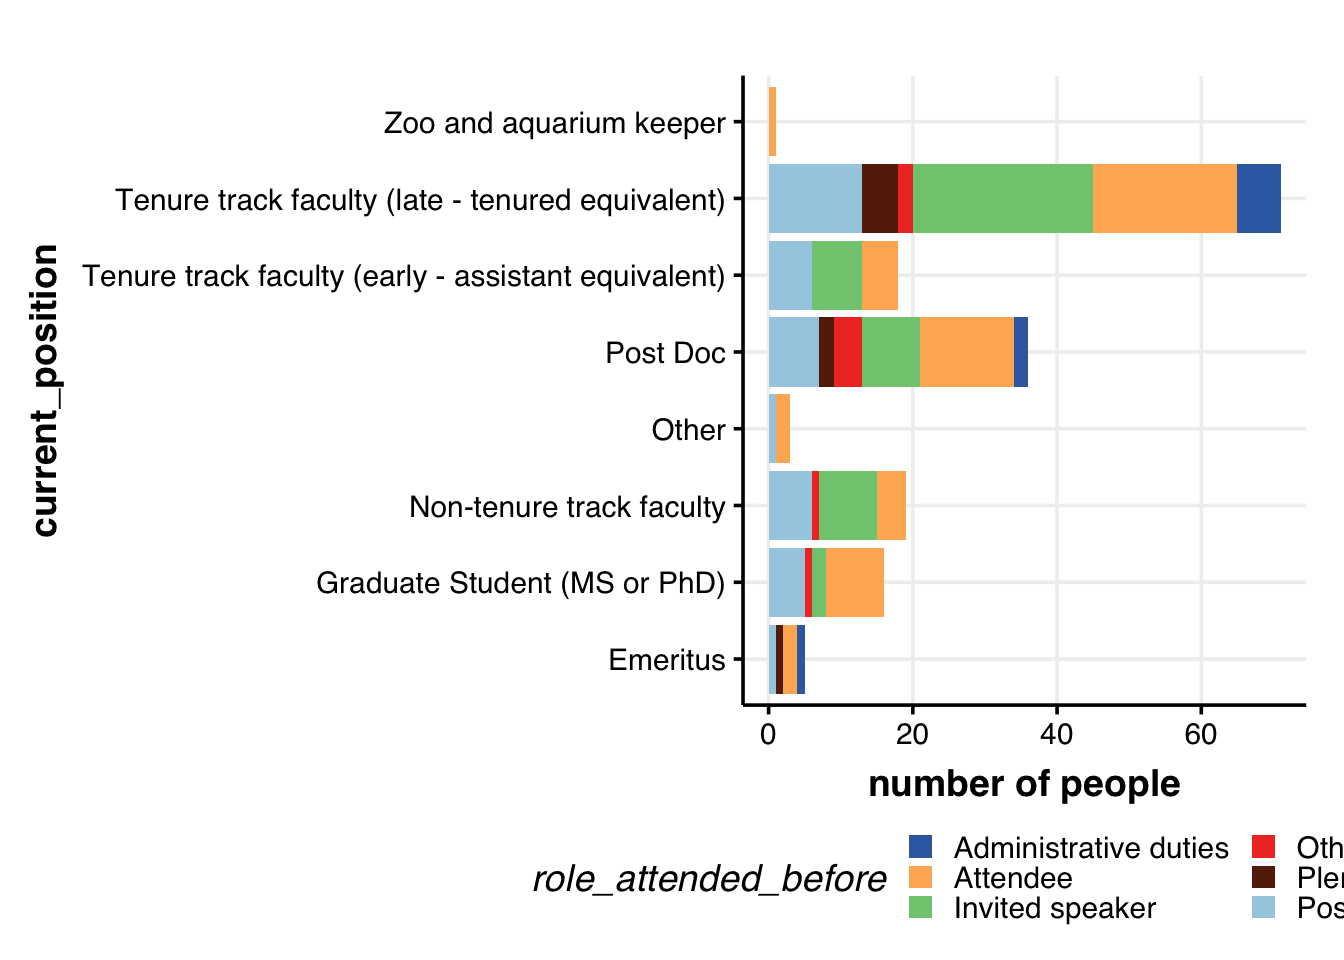
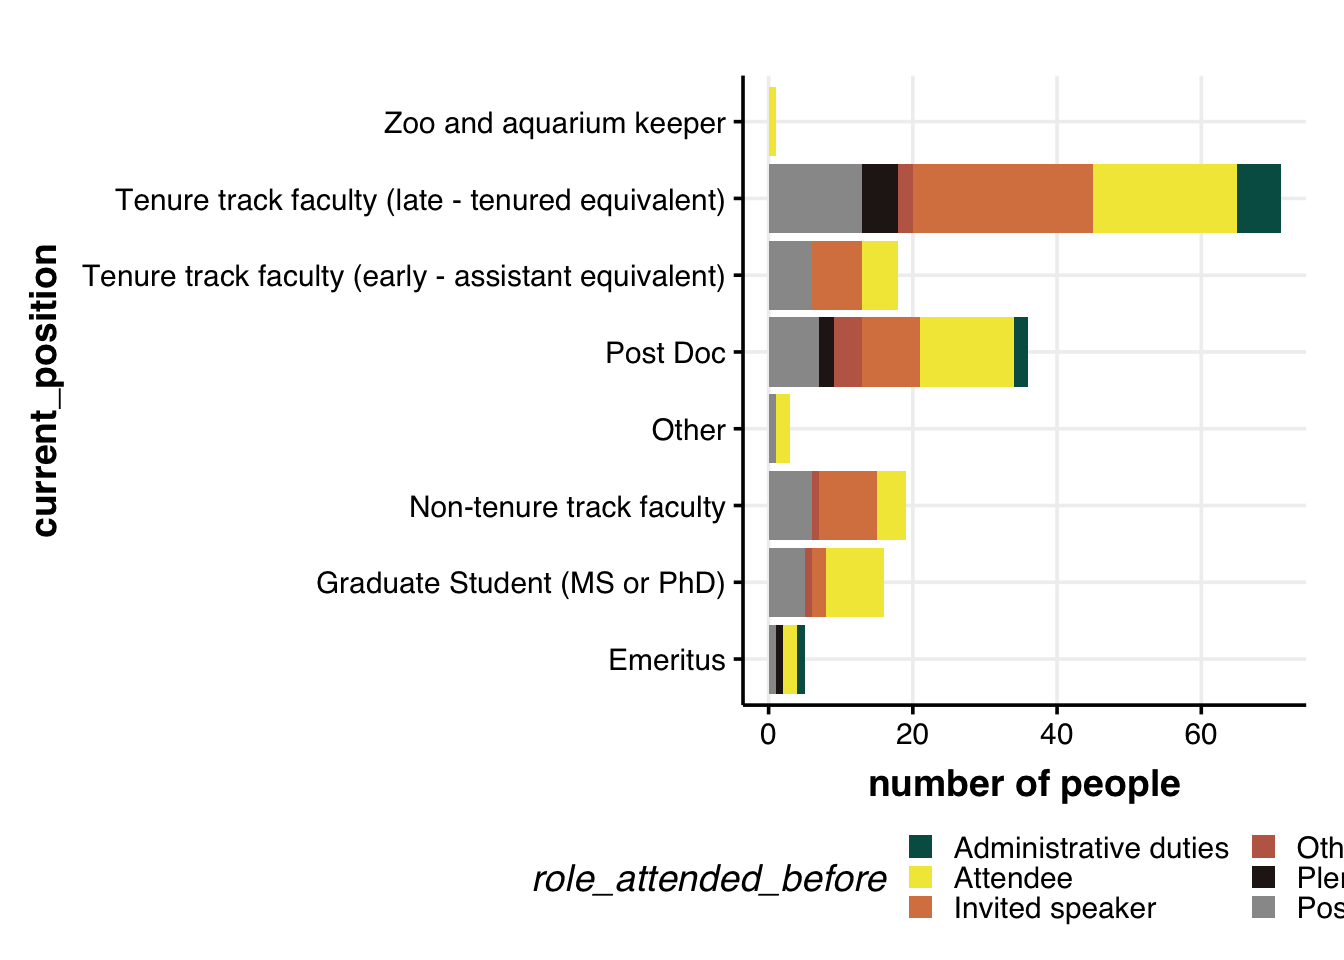
added a standardized measure of conference activity

Changed region(s): [[0.5625, 0.0938, 0.9688, 0.7188], [0.9062, 0.875, 0.9688, 0.9688], [0.6562, 0.875, 0.7188, 0.9688]]

diff --git a/docs/IUSSI2022.html b/docs/IUSSI2022.html
@@ -10,7 +10,6 @@
 <meta http-equiv="X-UA-Compatible" content="IE=EDGE" />
 
 
-<meta name="author" content="Biplabendu Das" />
 
 
 <title>Demography data for IUSSI</title>
@@ -439,7 +438,8 @@ div.tocify {
 
 <h1 class="title toc-ignore">Demography data for IUSSI</h1>
 <h4 class="author">Biplabendu Das</h4>
-<h4 class="date">14 July, 2022</h4>
+<address class="author_afil">
+DEIJ Committee, IUSSI<br><h4 class="date">18 July, 2022</h4>
 
 </div>
 
@@ -711,7 +711,7 @@ I have no disability/impairment
 </table>
 <div id="what-does-each-column-contain" class="section level3">
 <h3>What does each column contain?</h3>
-<p><strong>Column name and Description</strong></p>
+<p><strong>Column name: Description</strong></p>
 <ul>
 <li>time_of_entry:</li>
 <li>age:</li>
@@ -891,6 +891,11 @@ dat &lt;-
 </div>
 <div id="visualize" class="section level2">
 <h2>03 Visualize</h2>
+<pre class="r"><code>## Use this code chunk to define paramaters, such as color palettes and such
+
+## COLOR
+# role attended before
+roles.color &lt;- c(&quot;#005C53&quot;, &quot;#F2E744&quot;, &quot;#D9814E&quot;, &quot;#BF6854&quot;, &quot;#261B1A&quot;, &quot;grey60&quot;)</code></pre>
 <div id="age-gender" class="section level3">
 <h3>Age &amp; gender</h3>
 <pre class="r"><code>## AGE + GENDER
@@ -969,7 +974,7 @@ dat %&gt;%
     guides(fill = guide_legend(nrow = 3))</code></pre>
 <p><img src="IUSSI2022_files/figure-html/research_location_gender-1.png" width="672" /></p>
 <blockquote>
-<p>A bunch of folks perform research in Central America, but no representation from folks living in Central America.</p>
+<p>A bunch of folks perform research in Central America, but there seems to be no representation from folks living in Central America. There is, of course, the possibility that folks residing in Central America did not take the survey.</p>
 </blockquote>
 <hr />
 </div>
@@ -1044,7 +1049,8 @@ dat %&gt;%
     coord_flip() +
     theme_Publication() +
     scale_colour_Publication() +
-    scale_fill_Publication() +
+    # scale_fill_Publication() +
+    scale_fill_manual(values = roles.color) +
     guides(fill = guide_legend(nrow = 3))</code></pre>
 <p><img src="IUSSI2022_files/figure-html/role_attended_before_residence_location-1.png" width="672" /></p>
 <hr />
@@ -1070,12 +1076,101 @@ dat %&gt;%
     coord_flip() +
     theme_Publication() +
     scale_colour_Publication() +
-    scale_fill_Publication() +
+    scale_fill_manual(values = roles.color) +
     guides(fill = guide_legend(nrow = 3))</code></pre>
 <p><img src="IUSSI2022_files/figure-html/role_attended_before_current_position-1.png" width="672" /></p>
 <pre class="r"><code># to do:
 # normalize the number of roles undertaken by a person in past IUSSI
 # number of past roles / number of past IUSSI attended</code></pre>
+<p>The above plot might be misleading since the higher number of roles assumed by (activity of) late, tenured Profs might be due to the higher number of previous conferences attened by them. So, it might make sense to have a standardized metric that gives us a better understanding of the activity of each group in IUSSI.</p>
+<blockquote>
+<p>Activity = number of roles assumed (other than attendee) / number of IUSSIs attended</p>
+</blockquote>
+<pre class="r"><code>id &lt;- character()
+num_attended &lt;- numeric()  
+for (i in 1:length(levels(as.factor(dat$ID)))) {
+    
+    id[i] &lt;- levels(as.factor(dat$ID))[i]
+    
+    num_attended[i] &lt;-
+      dat %&gt;% 
+      filter(ID == id[i]) %&gt;%
+      # select(which_attended_before)
+      mutate(which_attended_before=as.character(which_attended_before)) %&gt;% 
+      pull(which_attended_before) %&gt;% 
+      unique() %&gt;% 
+      as.factor() %&gt;% 
+      levels() %&gt;% length() %&gt;% 
+      as.numeric()
+}
+
+dummy.dat &lt;- data.frame(ID=id, num_attended=num_attended)
+
+## Add this information to the primary dataset
+
+dat %&gt;% 
+  
+  # add the num_attended column to dat
+  left_join(dummy.dat, by=&quot;ID&quot;) %&gt;% 
+    # check to see if it worked
+    # select(ID, which_attended_before, num_attended) %&gt;% head(20)
+  
+  # remove the rows with no info
+  filter(!is.na(role_attended_before)) %&gt;%
+  filter(!is.na(current_position)) %&gt;%
+  # filter(gender != &quot;Other&quot;) %&gt;% 
+  
+  select(ID, current_position, role_attended_before, num_attended) %&gt;% 
+    # head(20)
+  
+  distinct(ID, role_attended_before, current_position, num_attended) %&gt;% 
+  
+  group_by(ID, current_position, num_attended) %&gt;%
+  summarize(num_roles = n()) %&gt;% 
+  arrange(as.numeric(ID)) %&gt;% 
+  
+  # calculate activity
+  mutate(activity = num_roles/num_attended) %&gt;% 
+    
+  ## Plot: research_location + gender
+  ggplot(aes(x=current_position, y=activity,fill=current_position)) +
+    # geom_bar(position=&quot;stack&quot;, stat=&quot;identity&quot;, size=2) +
+    geom_boxplot(alpha=0.7, outlier.colour = &quot;darkred&quot;) +
+    labs(y=&quot;roles/attendance&quot;) +
+    # geom_hline(yintercept = 5, col=&quot;grey60&quot;, alpha=0.7, size=1) +
+    coord_flip() +
+    theme_Publication() +
+    scale_colour_Publication() +
+    scale_fill_Publication() +
+    # scale_fill_manual(values = roles.color) +
+    guides(fill = guide_legend(nrow = 8))</code></pre>
+<p><img src="IUSSI2022_files/figure-html/role_attended_before_current_position_v2-1.png" width="672" /></p>
+<hr />
+</div>
+<div id="role-of-attendee-ethnic-identity" class="section level3">
+<h3>Role of attendee &amp; ethnic identity</h3>
+<pre class="r"><code>dat %&gt;% 
+  
+  # remove the rows with no age/gender info
+  filter(!is.na(role_attended_before)) %&gt;%
+  filter(!is.na(ethnic_identity)) %&gt;%
+  # filter(gender != &quot;Other&quot;) %&gt;% 
+  
+  distinct(ID, role_attended_before, ethnic_identity) %&gt;% 
+  group_by(role_attended_before, ethnic_identity) %&gt;%
+  summarize(num = n()) %&gt;% 
+    
+  ## Plot: research_location + gender
+  ggplot(aes(x=ethnic_identity, y=num, fill=role_attended_before, group=role_attended_before)) +
+    geom_bar(position=&quot;stack&quot;, stat=&quot;identity&quot;, size=2) +
+    labs(y=&quot;number of people&quot;) +
+    # geom_hline(yintercept = 5, col=&quot;grey60&quot;, alpha=0.7, size=1) +
+    coord_flip() +
+    theme_Publication() +
+    scale_colour_Publication() +
+    scale_fill_manual(values = roles.color) +
+    guides(fill = guide_legend(nrow = 3))</code></pre>
+<p><img src="IUSSI2022_files/figure-html/role_attended_before_ethnic_identity-1.png" width="672" /></p>
 <hr />
 <p>All code used for this document is available on my <a href="https://github.com/biplabendu/homepage/blob/master/IUSSI2022.Rmd">Github</a>.</p>
 <hr />
